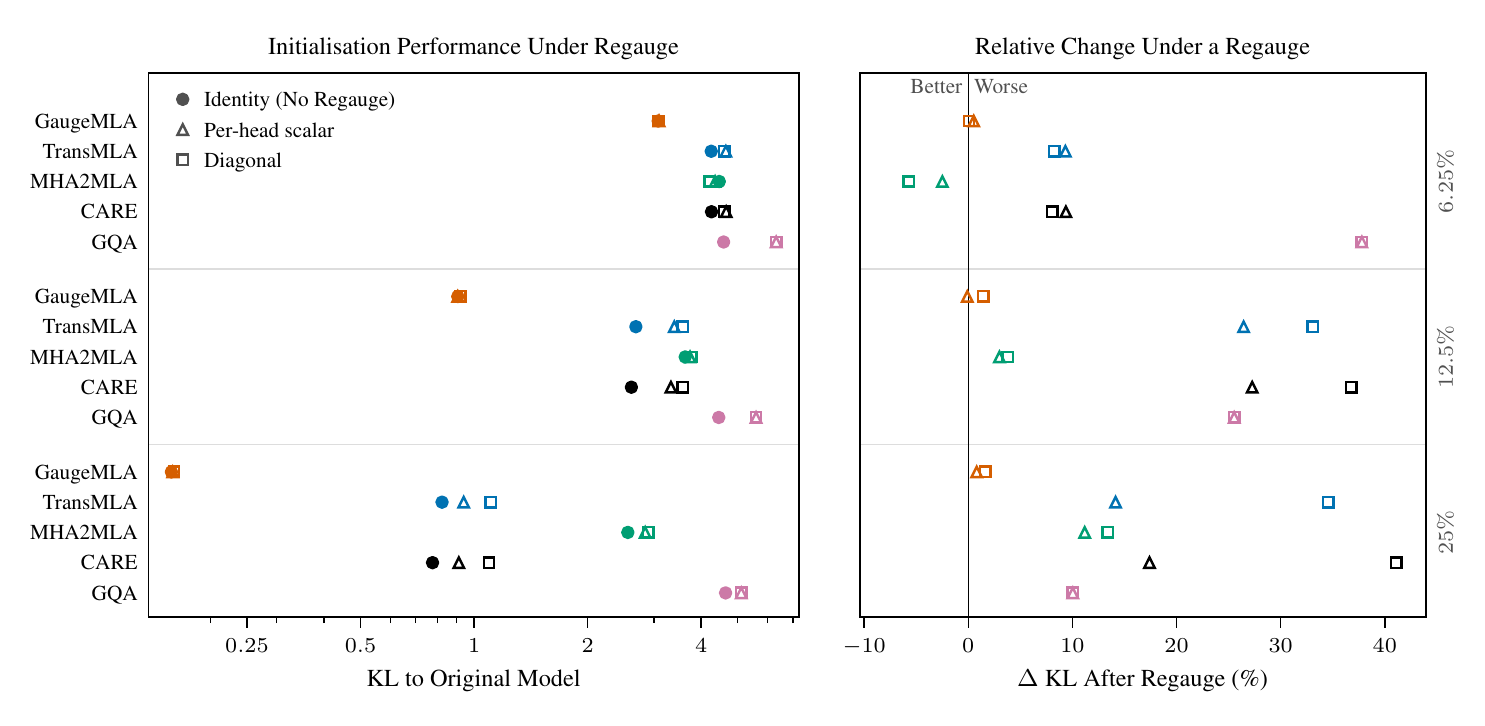
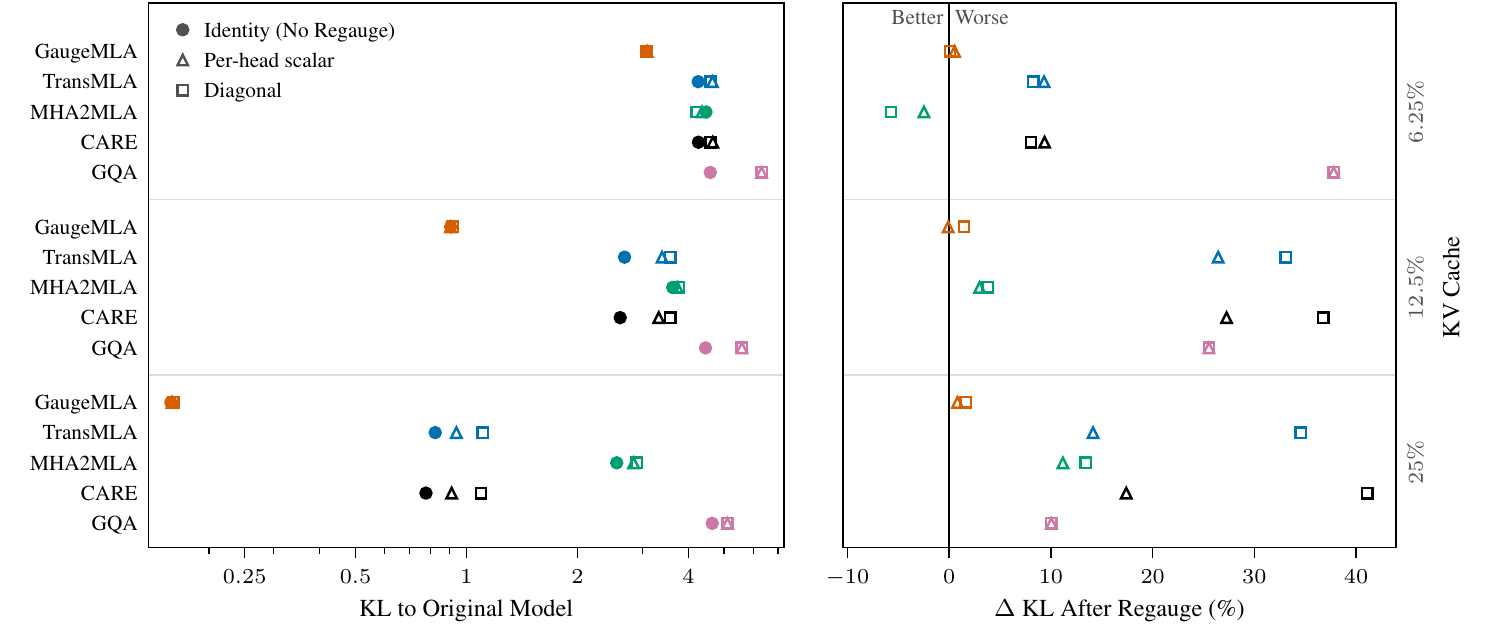
v2.5.2: TEST_TOKENS at a length the paper trained (5M, 50M) keeps the paper's evaluation schedule, so a 50M test no longer stops on the 50M warmup check; the README drops the un-roping and ablation paragraphs under the KL objective; Figure 1 and its caption follow the paper

diff --git a/colab/launch.py b/colab/launch.py
@@ -181,6 +181,9 @@ def kl_table(tag, test_tokens=0):
           "print GaugeMLA's and A_p^mean's t = 0 as the mean over five draws of the Fisher's labels (five label "
           "seeds, this one the first); the other methods' t = 0 and every 50M value are these runs' own.")
     if test_tokens and mine:
+        full = {max(r["tokens"] for r in rs) for rs in ref.values()} == {test_tokens}
         print(f"This was a test run of {test_tokens:,} training tokens: its t = 0 should be close to the paper's t = 0 "
               "above (the fits are redone on this machine, so expect differences in the last digits), while its end "
-              "is after a few optimiser steps and is not comparable with the paper's 50M.")
+              + ("is at the paper's length, on the paper's schedule, so it is comparable with the paper's end too "
+                 "(the training also runs on this machine, so expect small differences)." if full else
+                 "is after a few optimiser steps and is not comparable with the paper's 50M."))

diff --git a/experiments/grad_clip/l3_1b_gc/l3_1b_gc_run.py b/experiments/grad_clip/l3_1b_gc/l3_1b_gc_run.py
@@ -384,7 +384,8 @@ LADDERS = {5000000: {'battery': [0, 5000000],
 if TEST_TOKENS:
     if TEST_TOKENS < _TOKENS_PER_STEP:
         raise RuntimeError(f"TEST_TOKENS = {TEST_TOKENS:,} is under one optimiser step ({_TOKENS_PER_STEP:,} tokens)")
-    LADDERS[MAX_TOKENS] = {"kl": [0, MAX_TOKENS // 2, MAX_TOKENS], "battery": [0, MAX_TOKENS]}
+    if MAX_TOKENS not in LADDERS:   # a length the paper trained keeps the paper's schedule
+        LADDERS[MAX_TOKENS] = {"kl": [0, MAX_TOKENS // 2, MAX_TOKENS], "battery": [0, MAX_TOKENS]}
 EVAL_AT_TOKENS = sorted(set(LADDERS[MAX_TOKENS]["kl"]) | {WARMUP_END_TOKENS})
 BATTERY_AT_TOKENS = list(LADDERS[MAX_TOKENS]["battery"])
 BATTERY_PHASE = {0: "endpoint", MAX_TOKENS: "endpoint"}

diff --git a/experiments/grad_clip/olmo1b_gc/olmo1b_gc_run.py b/experiments/grad_clip/olmo1b_gc/olmo1b_gc_run.py
@@ -378,7 +378,8 @@ LADDERS = {5000000: {'battery': [0, 5000000],
 if TEST_TOKENS:
     if TEST_TOKENS < _TOKENS_PER_STEP:
         raise RuntimeError(f"TEST_TOKENS = {TEST_TOKENS:,} is under one optimiser step ({_TOKENS_PER_STEP:,} tokens)")
-    LADDERS[MAX_TOKENS] = {"kl": [0, MAX_TOKENS // 2, MAX_TOKENS], "battery": [0, MAX_TOKENS]}
+    if MAX_TOKENS not in LADDERS:   # a length the paper trained keeps the paper's schedule
+        LADDERS[MAX_TOKENS] = {"kl": [0, MAX_TOKENS // 2, MAX_TOKENS], "battery": [0, MAX_TOKENS]}
 EVAL_AT_TOKENS = sorted(set(LADDERS[MAX_TOKENS]["kl"]) | {WARMUP_END_TOKENS})
 BATTERY_AT_TOKENS = list(LADDERS[MAX_TOKENS]["battery"])
 BATTERY_PHASE = {0: "endpoint", MAX_TOKENS: "endpoint"}

diff --git a/experiments/grad_clip/p410m_gc/p410m_gc_run.py b/experiments/grad_clip/p410m_gc/p410m_gc_run.py
@@ -378,7 +378,8 @@ LADDERS = {5000000: {'battery': [0, 5000000],
 if TEST_TOKENS:
     if TEST_TOKENS < _TOKENS_PER_STEP:
         raise RuntimeError(f"TEST_TOKENS = {TEST_TOKENS:,} is under one optimiser step ({_TOKENS_PER_STEP:,} tokens)")
-    LADDERS[MAX_TOKENS] = {"kl": [0, MAX_TOKENS // 2, MAX_TOKENS], "battery": [0, MAX_TOKENS]}
+    if MAX_TOKENS not in LADDERS:   # a length the paper trained keeps the paper's schedule
+        LADDERS[MAX_TOKENS] = {"kl": [0, MAX_TOKENS // 2, MAX_TOKENS], "battery": [0, MAX_TOKENS]}
 EVAL_AT_TOKENS = sorted(set(LADDERS[MAX_TOKENS]["kl"]) | {WARMUP_END_TOKENS})
 BATTERY_AT_TOKENS = list(LADDERS[MAX_TOKENS]["battery"])
 BATTERY_PHASE = {0: "endpoint", MAX_TOKENS: "endpoint"}

diff --git a/experiments/grad_clip/q0p5b_gc/q0p5b_gc_run.py b/experiments/grad_clip/q0p5b_gc/q0p5b_gc_run.py
@@ -378,7 +378,8 @@ LADDERS = {5000000: {'battery': [0, 5000000],
 if TEST_TOKENS:
     if TEST_TOKENS < _TOKENS_PER_STEP:
         raise RuntimeError(f"TEST_TOKENS = {TEST_TOKENS:,} is under one optimiser step ({_TOKENS_PER_STEP:,} tokens)")
-    LADDERS[MAX_TOKENS] = {"kl": [0, MAX_TOKENS // 2, MAX_TOKENS], "battery": [0, MAX_TOKENS]}
+    if MAX_TOKENS not in LADDERS:   # a length the paper trained keeps the paper's schedule
+        LADDERS[MAX_TOKENS] = {"kl": [0, MAX_TOKENS // 2, MAX_TOKENS], "battery": [0, MAX_TOKENS]}
 EVAL_AT_TOKENS = sorted(set(LADDERS[MAX_TOKENS]["kl"]) | {WARMUP_END_TOKENS})
 BATTERY_AT_TOKENS = list(LADDERS[MAX_TOKENS]["battery"])
 BATTERY_PHASE = {0: "endpoint", MAX_TOKENS: "endpoint"}

diff --git a/experiments/grad_clip/slm1p6b_gc/slm1p6b_gc_run.py b/experiments/grad_clip/slm1p6b_gc/slm1p6b_gc_run.py
@@ -380,7 +380,8 @@ LADDERS = {5000000: {'battery': [0, 5000000],
 if TEST_TOKENS:
     if TEST_TOKENS < _TOKENS_PER_STEP:
         raise RuntimeError(f"TEST_TOKENS = {TEST_TOKENS:,} is under one optimiser step ({_TOKENS_PER_STEP:,} tokens)")
-    LADDERS[MAX_TOKENS] = {"kl": [0, MAX_TOKENS // 2, MAX_TOKENS], "battery": [0, MAX_TOKENS]}
+    if MAX_TOKENS not in LADDERS:   # a length the paper trained keeps the paper's schedule
+        LADDERS[MAX_TOKENS] = {"kl": [0, MAX_TOKENS // 2, MAX_TOKENS], "battery": [0, MAX_TOKENS]}
 EVAL_AT_TOKENS = sorted(set(LADDERS[MAX_TOKENS]["kl"]) | {WARMUP_END_TOKENS})
 BATTERY_AT_TOKENS = list(LADDERS[MAX_TOKENS]["battery"])
 BATTERY_PHASE = {0: "endpoint", MAX_TOKENS: "endpoint"}

diff --git a/experiments/grad_clip/sm360m_gc/sm360m_gc_run.py b/experiments/grad_clip/sm360m_gc/sm360m_gc_run.py
@@ -379,7 +379,8 @@ LADDERS = {5000000: {'battery': [0, 5000000],
 if TEST_TOKENS:
     if TEST_TOKENS < _TOKENS_PER_STEP:
         raise RuntimeError(f"TEST_TOKENS = {TEST_TOKENS:,} is under one optimiser step ({_TOKENS_PER_STEP:,} tokens)")
-    LADDERS[MAX_TOKENS] = {"kl": [0, MAX_TOKENS // 2, MAX_TOKENS], "battery": [0, MAX_TOKENS]}
+    if MAX_TOKENS not in LADDERS:   # a length the paper trained keeps the paper's schedule
+        LADDERS[MAX_TOKENS] = {"kl": [0, MAX_TOKENS // 2, MAX_TOKENS], "battery": [0, MAX_TOKENS]}
 EVAL_AT_TOKENS = sorted(set(LADDERS[MAX_TOKENS]["kl"]) | {WARMUP_END_TOKENS})
 BATTERY_AT_TOKENS = list(LADDERS[MAX_TOKENS]["battery"])
 BATTERY_PHASE = {0: "endpoint", MAX_TOKENS: "endpoint"}

diff --git a/experiments/grad_clip/tl1b_gc/tl1b_gc_run.py b/experiments/grad_clip/tl1b_gc/tl1b_gc_run.py
@@ -380,7 +380,8 @@ LADDERS = {5000000: {'battery': [0, 5000000],
 if TEST_TOKENS:
     if TEST_TOKENS < _TOKENS_PER_STEP:
         raise RuntimeError(f"TEST_TOKENS = {TEST_TOKENS:,} is under one optimiser step ({_TOKENS_PER_STEP:,} tokens)")
-    LADDERS[MAX_TOKENS] = {"kl": [0, MAX_TOKENS // 2, MAX_TOKENS], "battery": [0, MAX_TOKENS]}
+    if MAX_TOKENS not in LADDERS:   # a length the paper trained keeps the paper's schedule
+        LADDERS[MAX_TOKENS] = {"kl": [0, MAX_TOKENS // 2, MAX_TOKENS], "battery": [0, MAX_TOKENS]}
 EVAL_AT_TOKENS = sorted(set(LADDERS[MAX_TOKENS]["kl"]) | {WARMUP_END_TOKENS})
 BATTERY_AT_TOKENS = list(LADDERS[MAX_TOKENS]["battery"])
 BATTERY_PHASE = {0: "endpoint", MAX_TOKENS: "endpoint"}

diff --git a/experiments/grad_clip_5m/p410m_gc5m/p410m_gc5m_run.py b/experiments/grad_clip_5m/p410m_gc5m/p410m_gc5m_run.py
@@ -389,7 +389,8 @@ LADDERS = {5000000: {'battery': [0, 5000000],
 if TEST_TOKENS:
     if TEST_TOKENS < _TOKENS_PER_STEP:
         raise RuntimeError(f"TEST_TOKENS = {TEST_TOKENS:,} is under one optimiser step ({_TOKENS_PER_STEP:,} tokens)")
-    LADDERS[MAX_TOKENS] = {"kl": [0, MAX_TOKENS // 2, MAX_TOKENS], "battery": [0, MAX_TOKENS]}
+    if MAX_TOKENS not in LADDERS:   # a length the paper trained keeps the paper's schedule
+        LADDERS[MAX_TOKENS] = {"kl": [0, MAX_TOKENS // 2, MAX_TOKENS], "battery": [0, MAX_TOKENS]}
 EVAL_AT_TOKENS = sorted(set(LADDERS[MAX_TOKENS]["kl"]) | {WARMUP_END_TOKENS})
 BATTERY_AT_TOKENS = list(LADDERS[MAX_TOKENS]["battery"])
 BATTERY_PHASE = {0: "endpoint", MAX_TOKENS: "endpoint"}

diff --git a/experiments/kl_standin_50m/l3_1b_klgc/l3_1b_klgc_run.py b/experiments/kl_standin_50m/l3_1b_klgc/l3_1b_klgc_run.py
@@ -363,7 +363,8 @@ LADDERS = {5000000: {'battery': [0, 5000000],
 if TEST_TOKENS:
     if TEST_TOKENS < _TOKENS_PER_STEP:
         raise RuntimeError(f"TEST_TOKENS = {TEST_TOKENS:,} is under one optimiser step ({_TOKENS_PER_STEP:,} tokens)")
-    LADDERS[MAX_TOKENS] = {"kl": [0, MAX_TOKENS // 2, MAX_TOKENS], "battery": [0, MAX_TOKENS]}
+    if MAX_TOKENS not in LADDERS:   # a length the paper trained keeps the paper's schedule
+        LADDERS[MAX_TOKENS] = {"kl": [0, MAX_TOKENS // 2, MAX_TOKENS], "battery": [0, MAX_TOKENS]}
 EVAL_AT_TOKENS = sorted(set(LADDERS[MAX_TOKENS]["kl"]) | {WARMUP_END_TOKENS})
 BATTERY_AT_TOKENS = list(LADDERS[MAX_TOKENS]["battery"])
 BATTERY_PHASE = {0: "endpoint", MAX_TOKENS: "endpoint"}

diff --git a/experiments/kl_standin_50m/olmo1b_klgc/olmo1b_klgc_run.py b/experiments/kl_standin_50m/olmo1b_klgc/olmo1b_klgc_run.py
@@ -358,7 +358,8 @@ LADDERS = {5000000: {'battery': [0, 5000000],
 if TEST_TOKENS:
     if TEST_TOKENS < _TOKENS_PER_STEP:
         raise RuntimeError(f"TEST_TOKENS = {TEST_TOKENS:,} is under one optimiser step ({_TOKENS_PER_STEP:,} tokens)")
-    LADDERS[MAX_TOKENS] = {"kl": [0, MAX_TOKENS // 2, MAX_TOKENS], "battery": [0, MAX_TOKENS]}
+    if MAX_TOKENS not in LADDERS:   # a length the paper trained keeps the paper's schedule
+        LADDERS[MAX_TOKENS] = {"kl": [0, MAX_TOKENS // 2, MAX_TOKENS], "battery": [0, MAX_TOKENS]}
 EVAL_AT_TOKENS = sorted(set(LADDERS[MAX_TOKENS]["kl"]) | {WARMUP_END_TOKENS})
 BATTERY_AT_TOKENS = list(LADDERS[MAX_TOKENS]["battery"])
 BATTERY_PHASE = {0: "endpoint", MAX_TOKENS: "endpoint"}

diff --git a/experiments/kl_standin_50m/p410m_klgc/p410m_klgc_run.py b/experiments/kl_standin_50m/p410m_klgc/p410m_klgc_run.py
@@ -358,7 +358,8 @@ LADDERS = {5000000: {'battery': [0, 5000000],
 if TEST_TOKENS:
     if TEST_TOKENS < _TOKENS_PER_STEP:
         raise RuntimeError(f"TEST_TOKENS = {TEST_TOKENS:,} is under one optimiser step ({_TOKENS_PER_STEP:,} tokens)")
-    LADDERS[MAX_TOKENS] = {"kl": [0, MAX_TOKENS // 2, MAX_TOKENS], "battery": [0, MAX_TOKENS]}
+    if MAX_TOKENS not in LADDERS:   # a length the paper trained keeps the paper's schedule
+        LADDERS[MAX_TOKENS] = {"kl": [0, MAX_TOKENS // 2, MAX_TOKENS], "battery": [0, MAX_TOKENS]}
 EVAL_AT_TOKENS = sorted(set(LADDERS[MAX_TOKENS]["kl"]) | {WARMUP_END_TOKENS})
 BATTERY_AT_TOKENS = list(LADDERS[MAX_TOKENS]["battery"])
 BATTERY_PHASE = {0: "endpoint", MAX_TOKENS: "endpoint"}
